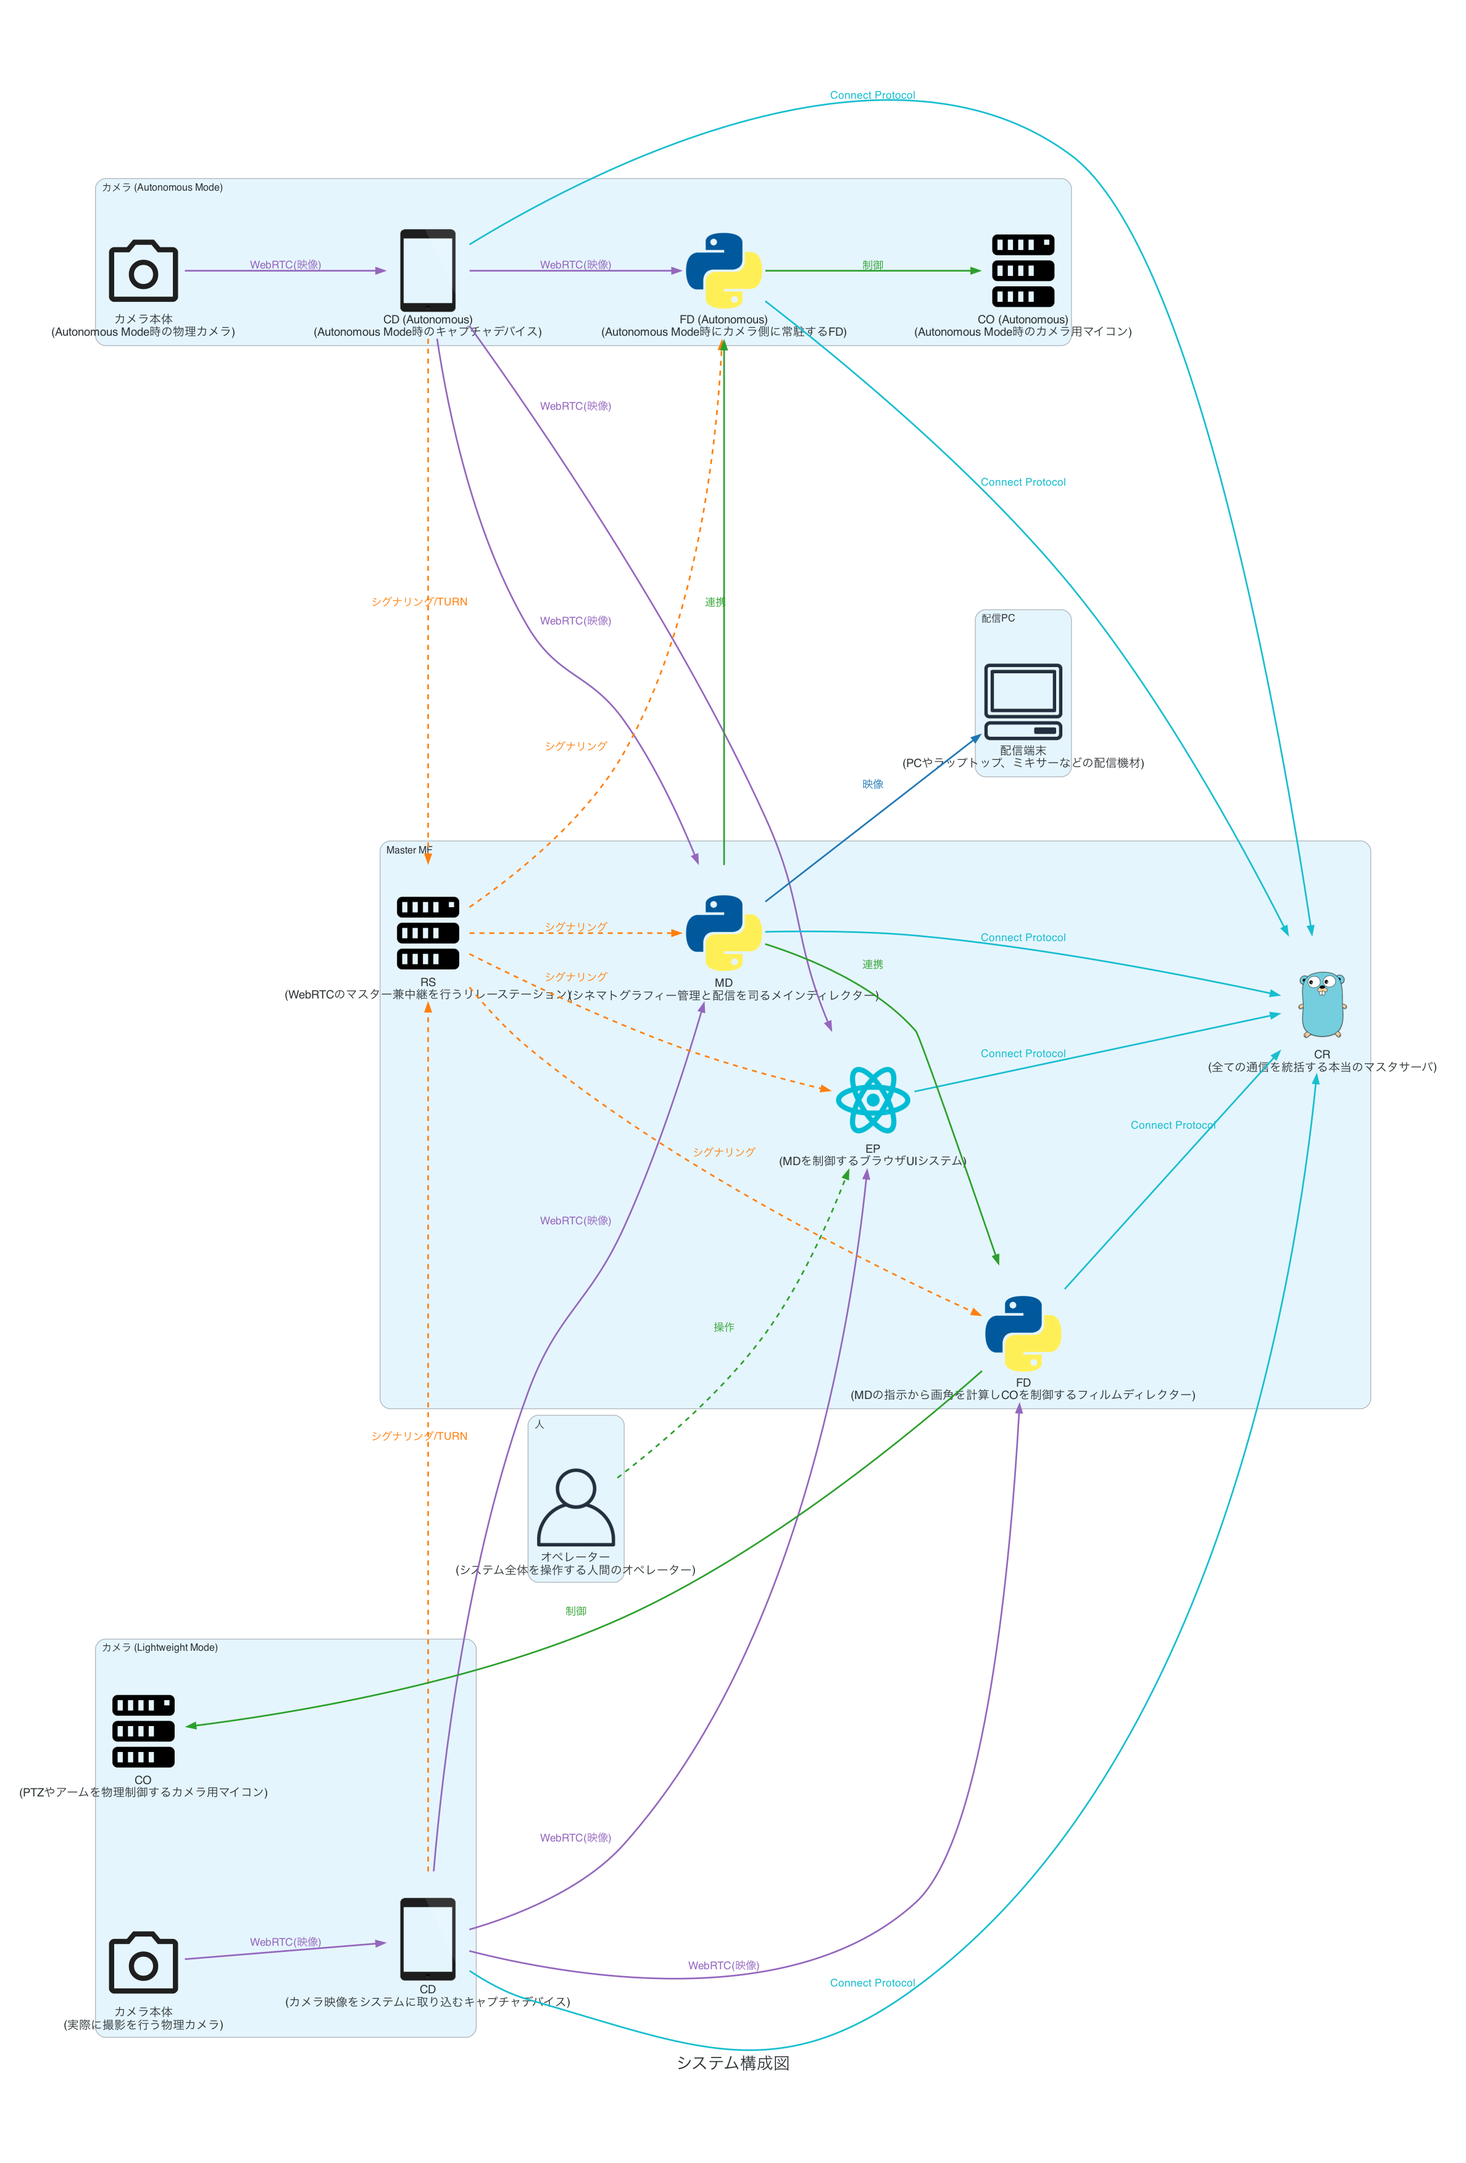
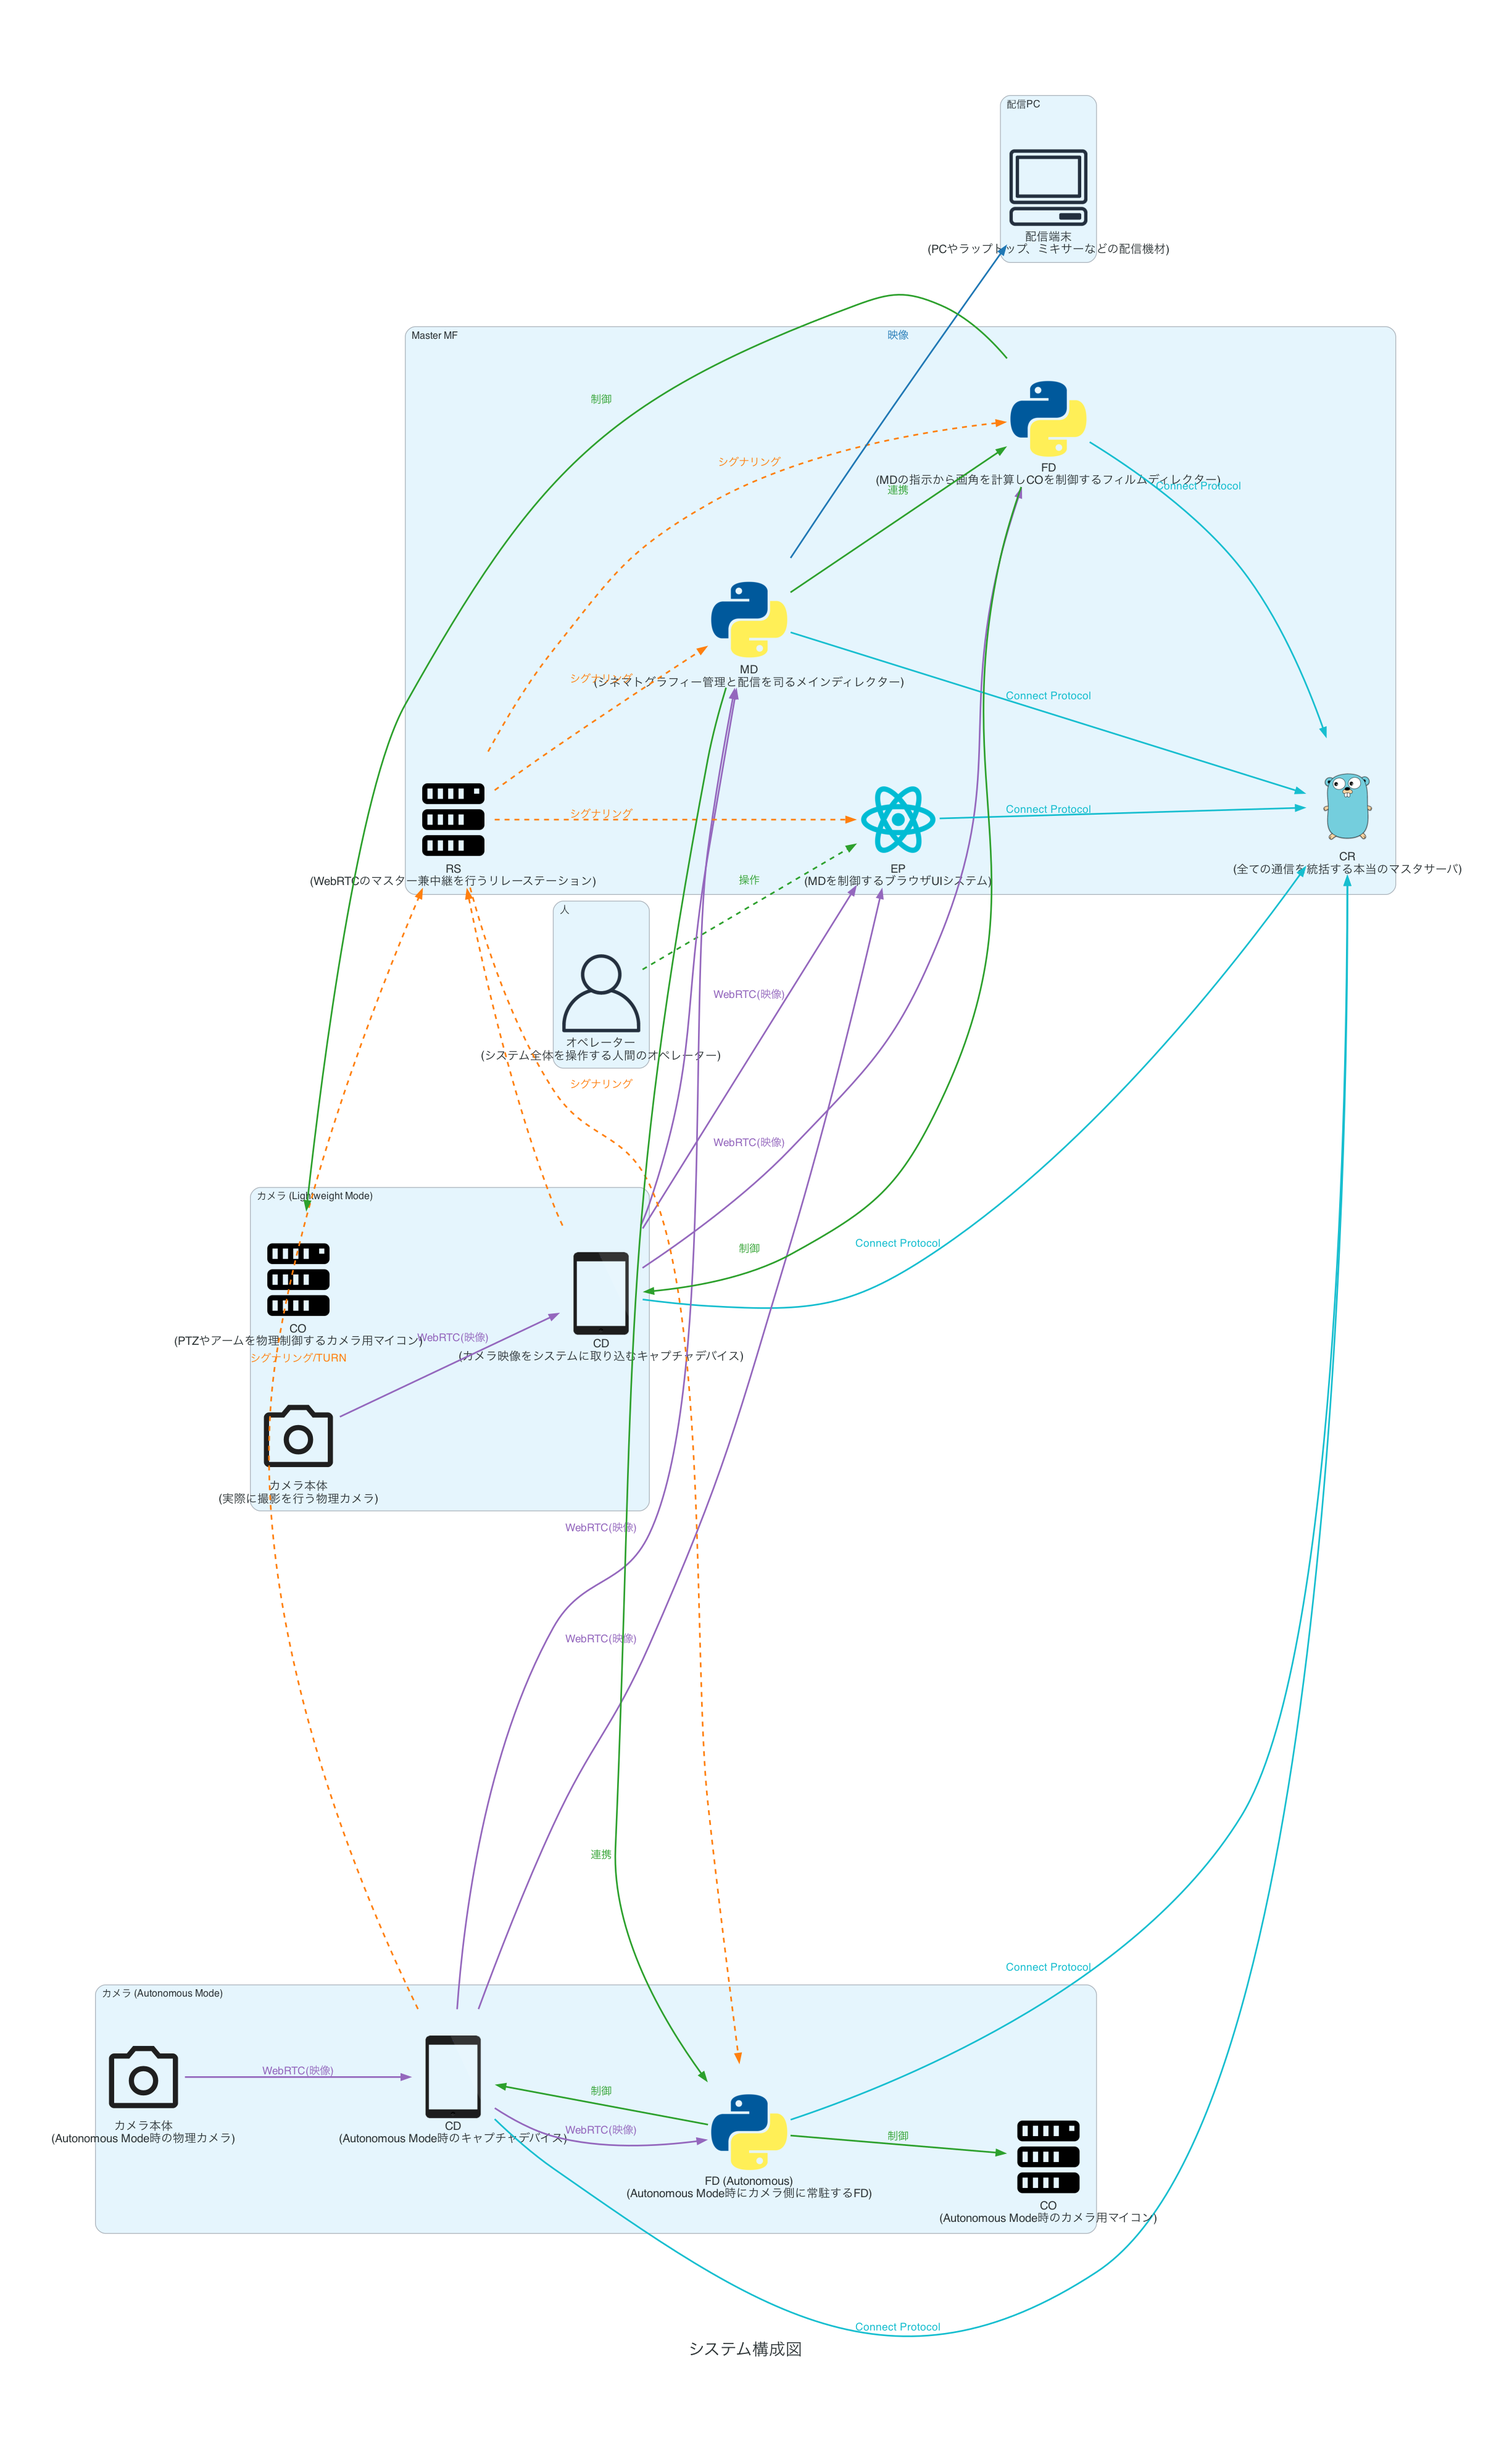
refactor: update system_diagram.py for clarity and consistency in naming; update system images

diff --git a/diagrams/system_diagram.py b/diagrams/system_diagram.py
@@ -131,8 +131,8 @@ def draw_diagram(mode: str) -> None:
                     "カメラ本体\n(Autonomous Mode時の物理カメラ)",
                     camera_icon_path,
                 )
-                cd_auto = Tablet("CD (Autonomous)\n(Autonomous Mode時のキャプチャデバイス)")
-                co_auto = Server("CO (Autonomous)\n(Autonomous Mode時のカメラ用マイコン)")
+                cd_auto = Tablet("CD\n(Autonomous Mode時のキャプチャデバイス)")
+                co_auto = Server("CO\n(Autonomous Mode時のカメラ用マイコン)")
                 fd_auto = Python("FD (Autonomous)\n(Autonomous Mode時にカメラ側に常駐するFD)")
             else:
                 # Autonomous Mode のインフラ構成: Raspberry Pi + k3s と Arduino、
@@ -140,11 +140,11 @@ def draw_diagram(mode: str) -> None:
                 with Cluster("Raspberry Pi"):
                     _ = Server("raspberry pi")
                     _ = Server("k3s")
-                    _ = Tablet("CD (Autonomous)")
+                    _ = Tablet("CD")
                     _ = Python("FD (Autonomous)")
                 with Cluster("Arduino (Autonomous)"):
                     _ = Server("Arduino")
-                    _ = Server("CO (Autonomous)")
+                    _ = Server("CO")
 
         # Master MF
         with Cluster(
@@ -222,31 +222,37 @@ def draw_diagram(mode: str) -> None:
         # Lightweight Mode: FD → CO（制御信号）
         fd >> control_edge() >> co
 
+        # Lightweight Mode: FD → CD（制御信号）
+        fd >> control_edge() >> cd
+
         # --- カメラ (Autonomous Mode) の接続 ---
 
-        # カメラ本体 (Autonomous) → CD (Autonomous)（WebRTC(映像)）
+        # カメラ本体 (Autonomous) → CD（WebRTC(映像)）
         camera_body_auto >> webrtc_video_edge() >> cd_auto
 
-        # CD (Autonomous) → RS（WebRTC のシグナリング/TURN）
+        # CD → RS（WebRTC のシグナリング/TURN）
         cd_auto >> signaling_edge() >> rs
 
         # RS → FD (Autonomous)（WebRTC のシグナリング）
         rs >> signaling_edge(label="シグナリング") >> fd_auto
 
-        # CD (Autonomous) → MD, FD (Autonomous), EP（WebRTC・映像）
+        # CD → MD, FD (Autonomous), EP（WebRTC・映像）
         cd_auto >> webrtc_video_edge() >> md
         cd_auto >> webrtc_video_edge() >> fd_auto
         cd_auto >> webrtc_video_edge() >> ep
 
-        # CD (Autonomous), FD (Autonomous) → CR（Connect Protocol）
+        # CD, FD (Autonomous) → CR（Connect Protocol）
         cd_auto >> connect_edge() >> cr
         fd_auto >> connect_edge() >> cr
 
         # MD ↔ FD (Autonomous)（連携）
         md >> collaboration_edge(label="連携") >> fd_auto
 
-        # FD (Autonomous) → CO (Autonomous)（制御信号）
+        # FD (Autonomous) → CO（制御信号）
         fd_auto >> control_edge() >> co_auto
+
+        # FD (Autonomous) → CD（制御信号）
+        fd_auto >> control_edge() >> cd_auto
 
 
 if __name__ == "__main__":
